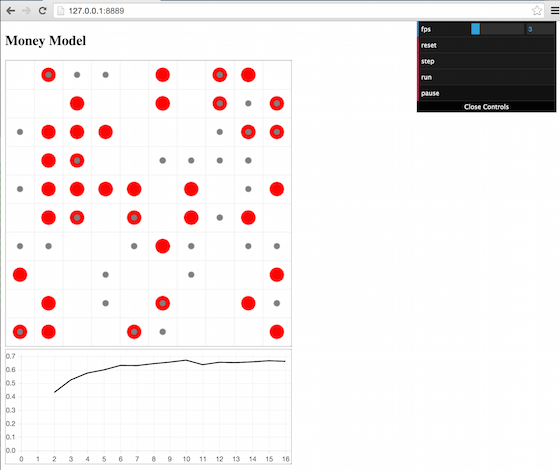
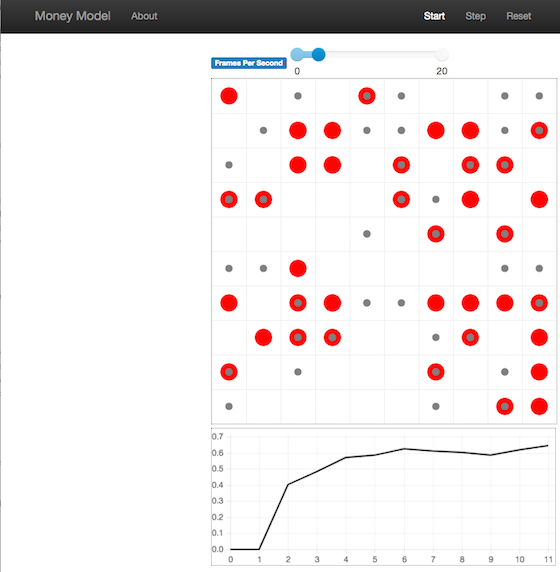
Updating tutorial
Updating tutorial to new API, and adding in UserParam section

diff --git a/mesa/visualization/UserParam.py b/mesa/visualization/UserParam.py
@@ -32,7 +32,7 @@ class UserSettableParameter:
         # Slider input
         slider_option = UserSettableParameter('slider', 'My Slider', value=123, min_value=10, max_value=200, step=0.1)
 
-        # Textbox
+        # Static text
         static_text = UserSettableParameter('static_text', value="This is a descriptive textbox")
      """
 

diff --git a/docs/tutorials/adv_tutorial.rst b/docs/tutorials/adv_tutorial.rst
@@ -83,8 +83,7 @@ following arguments:
 -  A list of module objects to include in the visualization; here, just
    ``[grid]``
 -  The title of the model: "Money Model"
--  Any inputs or arguments for the model itself. In this case, 100
-   agents, and height and width of 10.
+-  A dictionary of arguments for the model itself. In this case, ``{"N": 100, "width": 10, "height": 10}``
 
 Once we create the server, we set the port for it to listen on (you can
 treat this as just a piece of the URL you'll open in the browser).
@@ -95,7 +94,7 @@ treat this as just a piece of the URL you'll open in the browser).
     server = ModularServer(MoneyModel, 
                            [grid], 
                            "Money Model", 
-                           100, 10, 10)
+                           {"N": 100, "width": 10, "height": 10})
 
 Finally, when you're ready to run the visualization, use the server's
 ``launch()`` method, in ``run.py``. In this arrangmenet, ``run.py`` is
@@ -129,7 +128,7 @@ The full code should now look like:
     server = ModularServer(MoneyModel, 
                            [grid], 
                            "Money Model", 
-                           100, 10, 10)
+                           {"N": 100, "width": 10, "height": 10})
 
 Now run this file; this should launch the interactive visualization
 server and open your web browser automatically. (If the browser doesn't
@@ -137,17 +136,8 @@ open automatically, try pointing it at http://127.0.0.1:8521 manually.
 If this doesn't show you the visualization, something may have gone
 wrong with the server launch.)
 
-You should see something like the figure below: the model title, an
-empty space where the grid will be, and a control panel off to the
-right.
-
-.. figure:: files/viz_empty.png
-   :alt: Empty Visualization
-
-   Empty Visualization
-
-Click the 'reset' button on the control panel, and you should see the
-grid fill up with red circles, representing agents.
+You should see something like the figure below: the model title, a grid with
+red circles respresenting the agents, and the model controls at the top.
 
 .. figure:: files/viz_redcircles.png
    :alt: Redcircles Visualization
@@ -237,7 +227,7 @@ chart will appear underneath the grid.
     server = ModularServer(MoneyModel, 
                            [grid, chart], 
                            "Money Model", 
-                           100, 10, 10)
+                           {"N": 100, "width": 10, "height": 10})
 
 Launch the visualization and start a model run, and you'll see a line
 chart underneath the grid. Every step of the model, the line chart
@@ -248,9 +238,54 @@ updates along with the grid. Reset the model, and the chart resets too.
 
    Chart Visualization
 
-**Note:** You might notice that the chart line only starts after a
-couple of steps; this is due to a bug in Charts.js which will hopefully
-be fixed soon.
+
+Making a parameter interactive
+^^^^^^^^^^^^^^^^^^^^^^^^^^^^^^^
+
+One of the reasons we want to be able to watch a model run is to conduct ad-hoc
+experiments -- for example, to get an idea of how the model changes with
+different parameter values. Having to stop the simulation, edit a parameter
+value, and relaunch isn't an ideal way to go about it. That's why Mesa lets you
+set any parameter to be interactive, using the ``UserSettableParameter`` class. 
+
+For this example, we'll add a slider that controls how ``N``, many agents there
+are in the model. To do this, we need to choose the starting value (let's keep 
+this at 100); the minimum parameter value we'll allow (let's do 2, since one 
+agent alone will have nobody to trade with) and the maximum (we'll say 200); 
+and the increment the slider will go in (set this to 1, since there's no such 
+thing as a fraction of an agent). This looks like this:
+
+.. code:: python
+
+    from mesa.visualization.UserParam import UserSettableParameter
+
+    n_slider = UserSettableParameter('slider', "Number of Agents", 100, 2, 200, 1)
+
+To incorporate it into the model visualization interface, we make the slider 
+one of the model inputs, replacing the static parameter: 
+
+.. code:: python
+
+    # server.py
+    chart = ChartModule([{"Label": "Gini", 
+                          "Color": "Black"}],
+                        data_collector_name='datacollector')
+
+    server = ModularServer(MoneyModel, 
+                           [grid, chart], 
+                           "Money Model", 
+                           {"N": n_slider, "width": 10, "height": 10})
+
+When you launch the model, you'll see a slider, labeled "Number of Agents", on
+the left side of the interface. Try moving the slider around, then press Reset
+to restart the model with the number of agents you set. Parameter changes don't
+take effect until you reset the model.
+
+.. figure:: files/viz_slider.png
+   :alt: User-settable slider for parameter
+
+   User-Settable Parameter Slider
+
 
 Building your own visualization component
 ~~~~~~~~~~~~~~~~~~~~~~~~~~~~~~~~~~~~~~~~~
@@ -513,7 +548,7 @@ Now, you can create your new HistogramModule and add it to the server:
     server = ModularServer(MoneyModel,
                            [grid, histogram, chart],
                            "Money Model",
-                           100, 10, 10)
+                           {"N": n_slider, "width": 10, "height": 10})
 
 Run this code, and you should see your brand-new histogram added to the
 visualization and updating along with the model!
